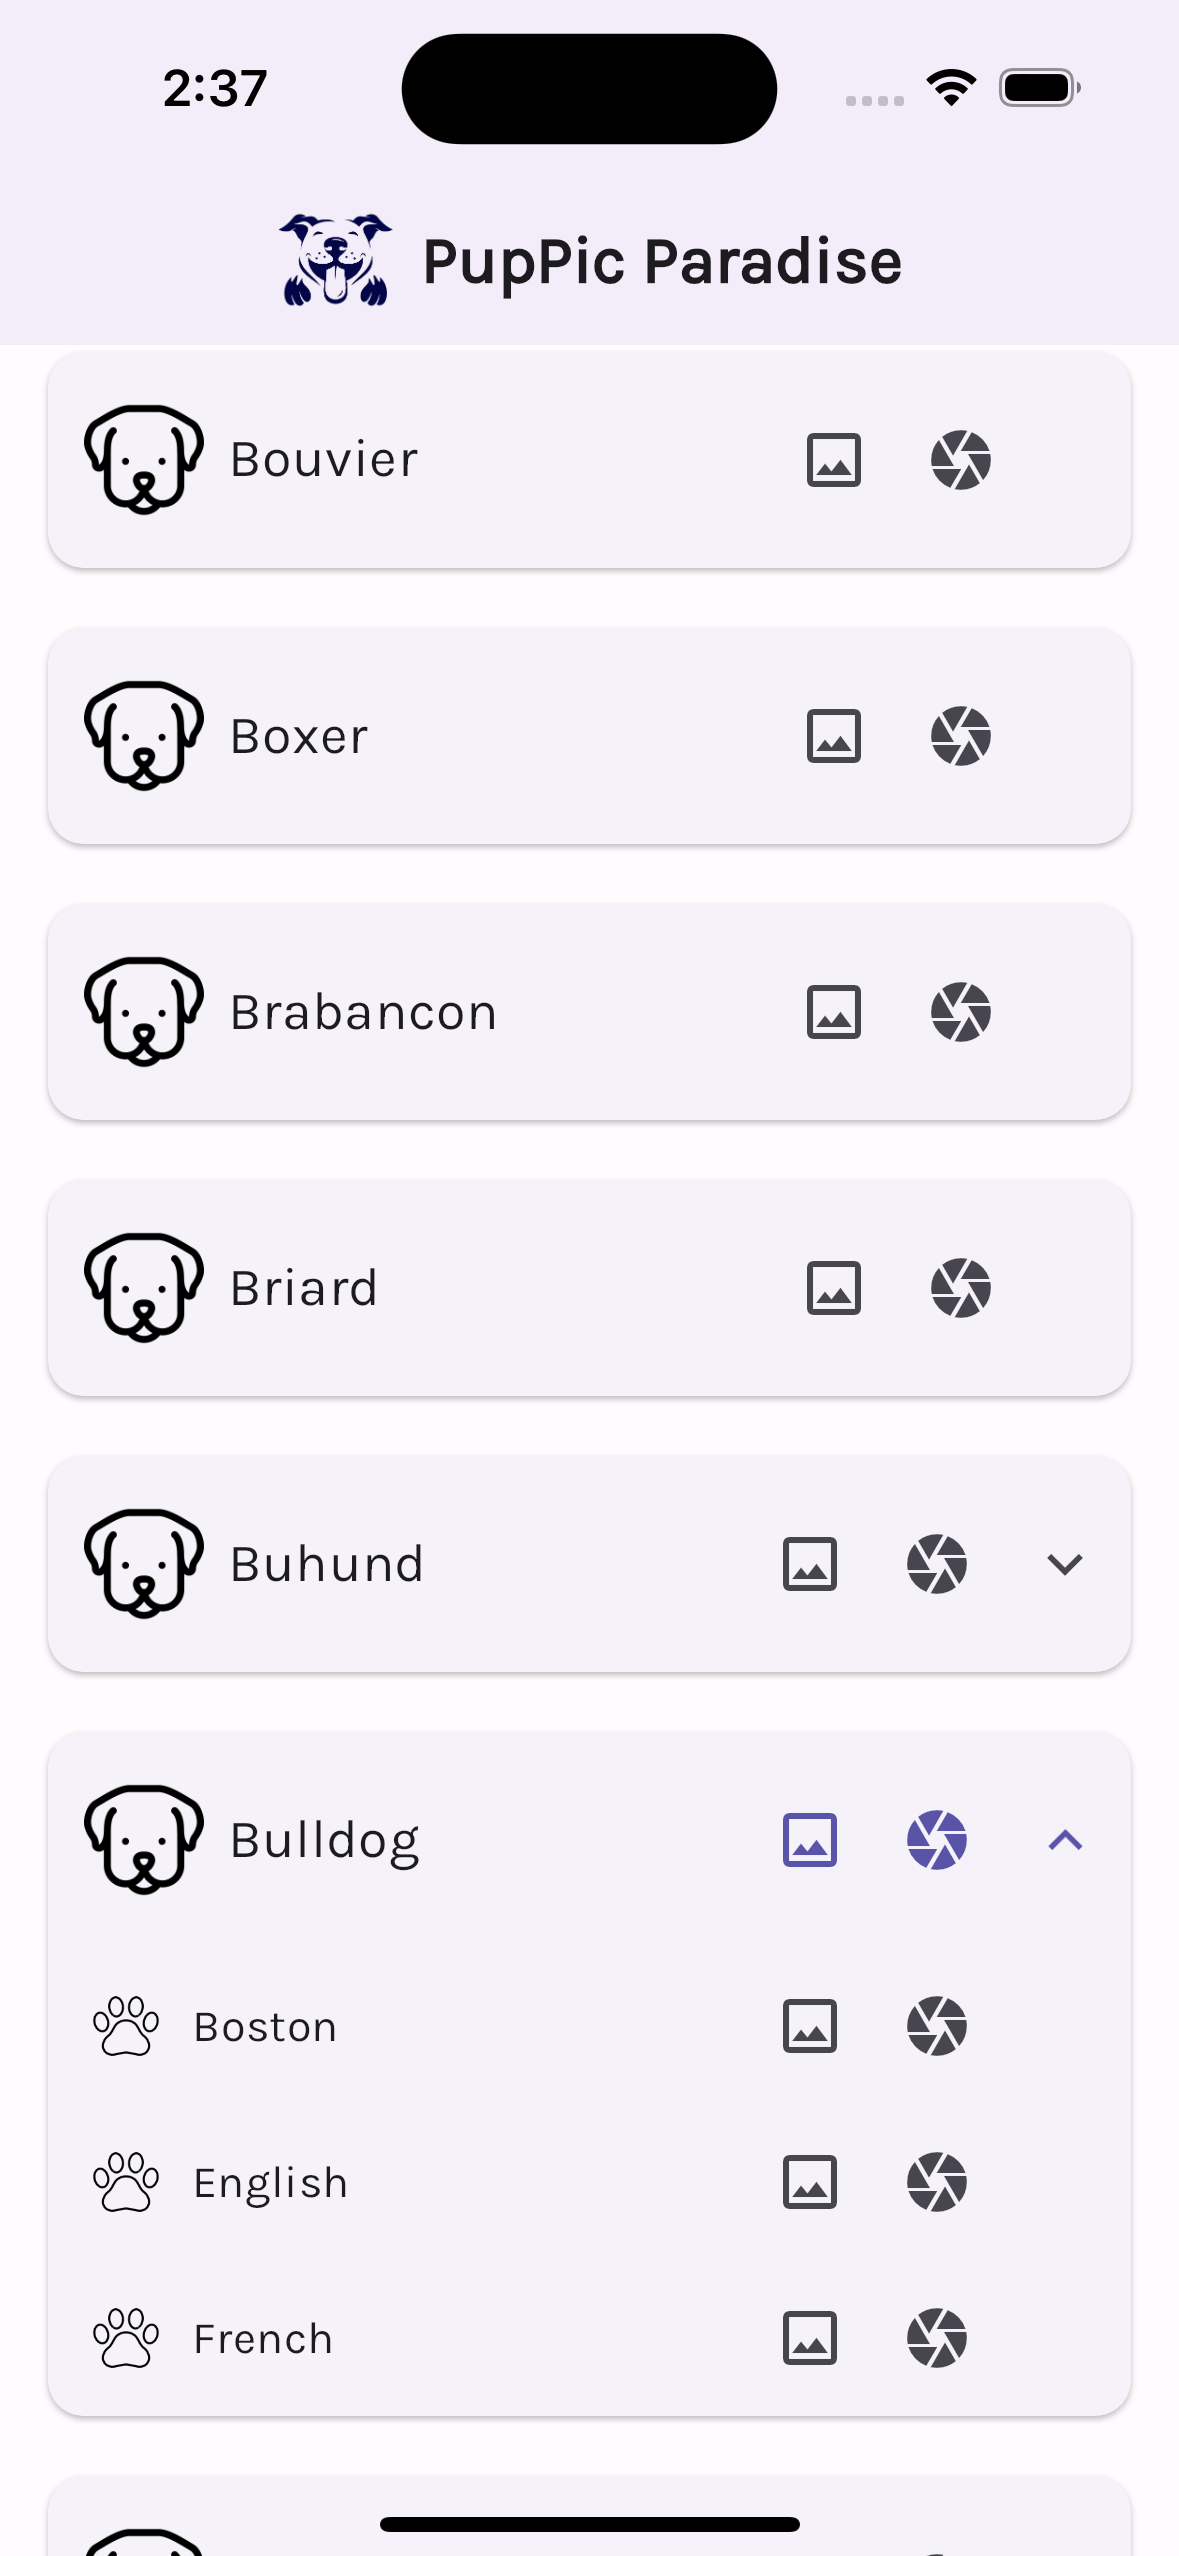
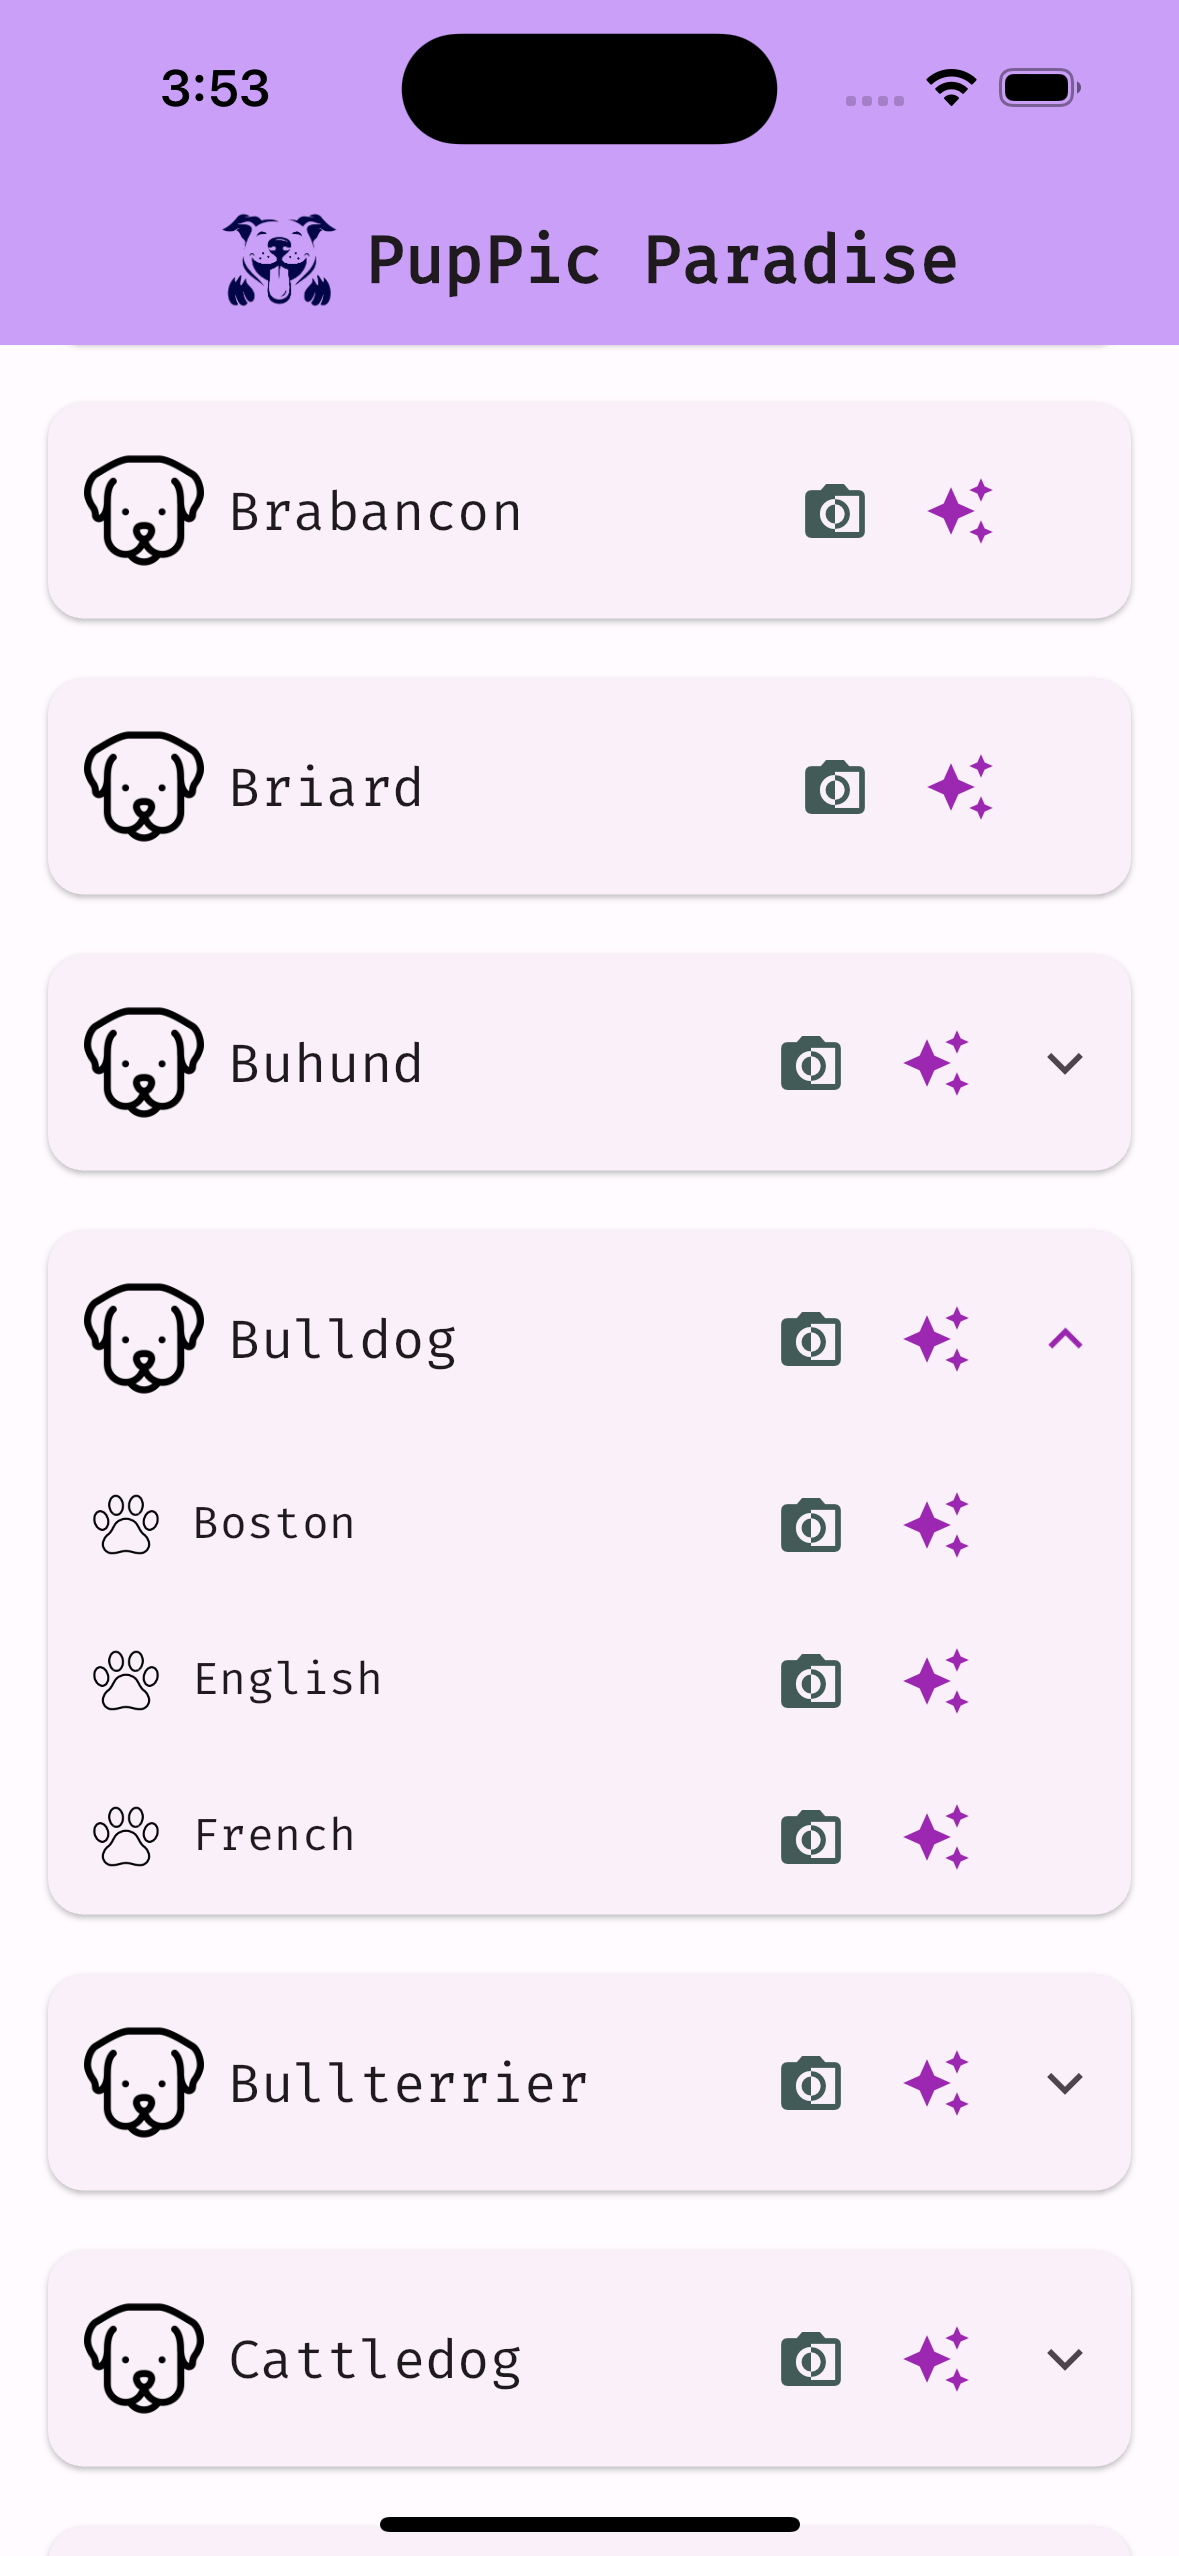
updated docs

diff --git a/lib/features/dogs_list/presentation/widgets/dog_list_item.dart b/lib/features/dogs_list/presentation/widgets/dog_list_item.dart
@@ -19,14 +19,19 @@ class DogListItem extends StatelessWidget {
 
   /// handles title of the row (eg. dog breed)
   final String title;
+
   /// handles leading icon image of row
   final String imgSrc;
+
   /// height of row item
   final double? height;
+
   /// handles styling of [title]
   final TextStyle? titleStyle;
+
   /// handles callback for what to happen when random Image action icon is pressed
   final VoidCallback? onRandomImagePress;
+
   /// handles callback for what to happen when Image list action icon is pressed
   final VoidCallback? onImageListPress;
   final EdgeInsetsGeometry actionPadding;
@@ -35,7 +40,6 @@ class DogListItem extends StatelessWidget {
 
   @override
   Widget build(BuildContext context) {
-
     return SizedBox(
       height: height,
       child: Row(
@@ -44,7 +48,8 @@ class DogListItem extends StatelessWidget {
           SizedBox(width: Insets.xs),
           Text(
             StringHelper.capitalizeFirstLetter(title),
-            style: titleStyle ?? Theme.of(context).textTheme.titleMedium?.copyWith(fontSize: 18),
+            style: titleStyle ??
+                Theme.of(context).textTheme.titleMedium?.copyWith(fontSize: 18),
           ),
           const Spacer(),
           Padding(
@@ -72,6 +77,7 @@ class DogListItemActions extends StatelessWidget {
 
   /// handles callback for what to happen when random Image action icon is pressed
   final VoidCallback? onRandomImagePress;
+
   /// handles callback for what to happen when Image list action icon is pressed
   final VoidCallback? onImageListPress;
 
@@ -85,7 +91,7 @@ class DogListItemActions extends StatelessWidget {
           child: IconButton(
             onPressed: onRandomImagePress,
             padding: EdgeInsets.zero,
-            icon: const Icon(Icons.photo_outlined),
+            icon: const Icon(Icons.monochrome_photos, color: Color(0xFF425A58)),
           ),
         ),
         SizedBox(width: Insets.sm),
@@ -95,7 +101,7 @@ class DogListItemActions extends StatelessWidget {
           child: IconButton(
             onPressed: onImageListPress,
             padding: EdgeInsets.zero,
-            icon: const Icon(Icons.camera),
+            icon: const Icon(Icons.auto_awesome, color: Colors.purple),
           ),
         ),
       ],

diff --git a/lib/main.dart b/lib/main.dart
@@ -33,14 +33,16 @@ class MyApp extends StatelessWidget {
         title: AppStrings.appName,
         debugShowCheckedModeBanner: false,
         theme: ThemeData(
-          colorScheme: ColorScheme.fromSeed(seedColor: AppColors.primary),
-          useMaterial3: true,
-          textTheme:  TextTheme(
-            headlineSmall: GoogleFonts.karla(),
-            titleMedium: GoogleFonts.karla(),
-            titleLarge: GoogleFonts.karla(),
-          )
-        ),
+            colorScheme: ColorScheme.fromSeed(seedColor: AppColors.primary),
+            appBarTheme: const AppBarTheme(
+              backgroundColor: AppColors.primaryContainer,
+            ),
+            useMaterial3: true,
+            textTheme: TextTheme(
+              headlineSmall: GoogleFonts.firaCode(),
+              titleMedium: GoogleFonts.firaCode(),
+              titleLarge: GoogleFonts.firaCode(),
+            )),
         supportedLocales: AppLocalizations.supportedLocales,
         localizationsDelegates: AppLocalizations.localizationsDelegates,
         initialRoute: DogListScreen.routePath,

diff --git a/lib/config/values/colors.dart b/lib/config/values/colors.dart
@@ -1,6 +1,5 @@
 part of values;
 
-
 /// colors used across the app
 class AppColors {
   // Background Colors
@@ -11,14 +10,11 @@ class AppColors {
 
   // PrimaryColors
   // static const primary = Color(0xFFF3869E);
-  static const primary = Color(0xFF06022C);
+  // static const primary = Color(0xFF06022C);
+  static const primary = Colors.purple;
+  static const primaryContainer = Color(0xFFCFAAFF);
   static const onPrimary = Color(0xFFFFFFFF);
-  static const primaryContainer = Color(0xFF7340DA);
-  static const onPrimaryContainer = Color(0xFFFFFFFF);
-  static const accent = Color(0xFF282828);
-
-
-
-
+  // static const primaryContainer = Color(0xFF7340DA);
+  // static const onPrimaryContainer = Color(0xFFFFFFFF);
+  // static const accent = Color(0xFF282828);
 }
-

diff --git a/README.md b/README.md
@@ -5,7 +5,7 @@
 </h1>
 
 <p align="center">
-    PupPic Paradise is a handy app that is used to view random images and image list of Dogs based on the selected breeds and subBreeds.
+    PupPic Paradise is a handy app that is used to view random images and image list of Dogs based on the selected breeds and sub-breeds.
 </p>
 
 <br/>
@@ -27,10 +27,10 @@
 
 ### Dogs List Screen
 
-This screen renders a list of dog breeds and sub breeds. If a dog breed has a sub breed, the card can be expanded to view the sub breeds.   
-On each bread and side breed, there are 2 icons:
-- the first icon (photo icon) navigates you to screen which shows you a random image of the breed/subBreed selected.
-- the second icon (camera icon) navigates you to screen which shows you an image list of the breed/subBreed selected.
+This screen renders a list of dog breeds and sub-breeds. If a dog breed has a sub-breed, the card can be expanded to view the sub-breeds.   
+On each breed and sub-breed item, there are 2 icons:
+- the first icon (camera icon) navigates you to screen which shows you a random image of the breed/sub-breed selected.
+- the second icon (auto awesome icon) navigates you to screen which shows you an image list of the breed/sub-breed selected.
 
 ![Screenshot](assets/screenshots/dog_list_screen.png)
 
@@ -38,7 +38,7 @@ On each bread and side breed, there are 2 icons:
 
 ### Random Dog Screen
 
-This screen renders a random image of the breed/subBreed selected from the [Dogs List Screen].   
+This screen renders a random image of the breed/sub-breed selected from the [Dogs List Screen].   
 There is also a floating action button to request another random image.
 
 ![Screenshot](assets/screenshots/random_dog_screen.png)
@@ -48,7 +48,7 @@ There is also a floating action button to request another random image.
 
 ### Image List Screen
 
-This screen renders an image list of the breed/subBreed selected from the [Dogs List Screen].  
+This screen renders an image list of the breed/sub-breed selected from the [Dogs List Screen].  
 
 
 ![Screenshot](assets/screenshots/image_list_screen.png)
